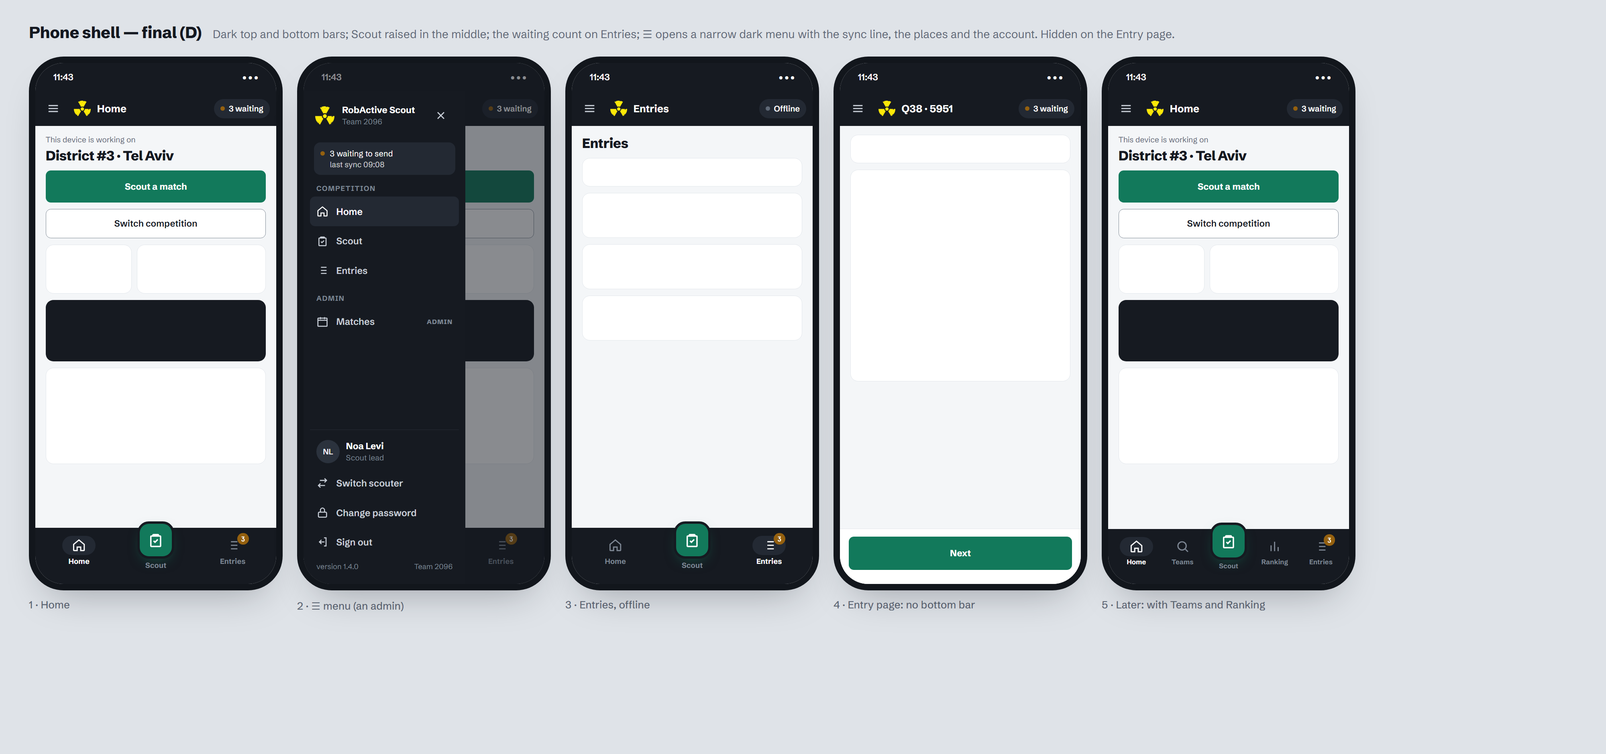
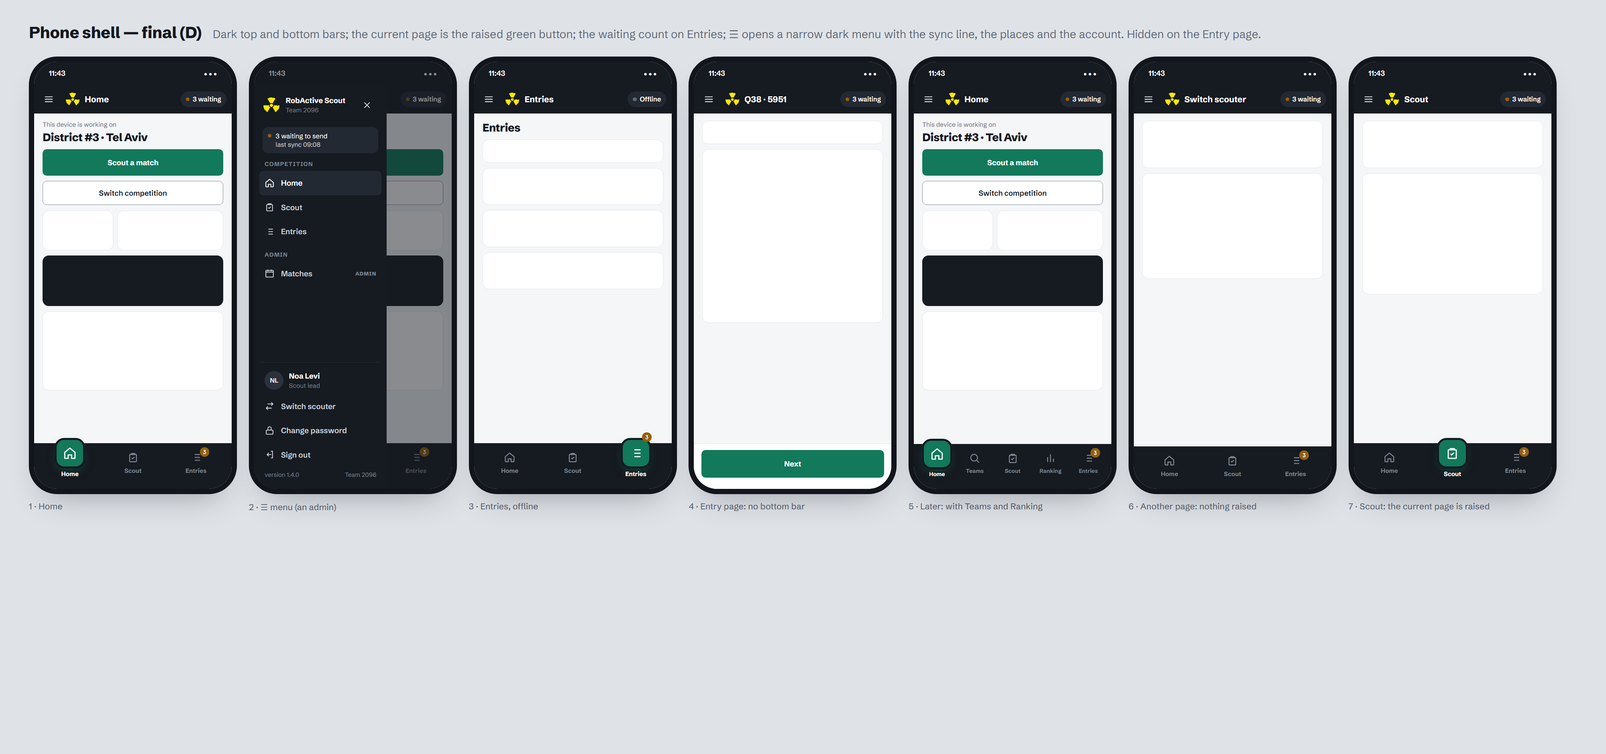
docs: UI fix round notes, spec v0.65-v0.66 (next match, Home station, deleted matches), phone bar design amended

diff --git a/docs/design/pages/11-phone-shell/final/shell-phone.html b/docs/design/pages/11-phone-shell/final/shell-phone.html
@@ -4,19 +4,21 @@
 <style>.canvas{height:940px}.frames{gap:18px}.phone{zoom:.8}.bb.five>span{font-size:10.5px}</style>
 </head><body>
 <div class="canvas">
-  <div class="canvas-head"><b>Phone shell — final (D)</b><span>Dark top and bottom bars; Scout raised in the middle; the waiting count on Entries; ☰ opens a narrow dark menu with the sync line, the places and the account. Hidden on the Entry page.</span></div>
-  <div class="frames" id="f"></div>
+  <div class="canvas-head"><b>Phone shell — final (D)</b><span>Dark top and bottom bars; the current page is the raised green button; the waiting count on Entries; ☰ opens a narrow dark menu with the sync line, the places and the account. Hidden on the Entry page.</span></div>
+  <div class="frames" id="f" style="gap:18px;zoom:0.82"></div>
 </div>
 <script src="../src/ps.js"></script>
 <script>
 const P = (inner, cap) => `<figure class="frame"><div class="phone"><div class="scr">${inner}</div></div><figcaption>${cap}</figcaption></figure>`;
 const tab = (k, l, on, extra = '') => `<span class="${on ? 'on' : ''}"><span class="ic">${PS.svg(k)}</span>${l}${extra}</span>`;
-const fab = (on) => `<span class="center"><span class="fab">${PS.svg('scout')}</span><span class="lbl" style="color:${on ? '#fff' : 'var(--rail-muted)'}">Scout</span></span>`;
+// Amended 2026-10-08: the CURRENT page is the raised green button, wherever it sits; the rest are flat tabs.
+const fab = (k, l, extra = '') => `<span class="center on"><span class="fab">${PS.svg(k)}</span><span class="lbl" style="color:#fff">${l}</span>${extra}</span>`;
+const item = (k, l, on, extra = '') => (on ? fab(k, l, extra) : tab(k, l, false, extra));
 const badge = '<span class="badge2">3</span>';
-const bar = (on) => `<div class="bb dark">${tab('home', 'Home', on === 'home')}${fab(on === 'scout')}${tab('entries', 'Entries', on === 'entries', badge)}</div>`;
+const bar = (on) => `<div class="bb dark">${item('home', 'Home', on === 'home')}${item('scout', 'Scout', on === 'scout')}${item('entries', 'Entries', on === 'entries', badge)}</div>`;
 const S = '<svg viewBox="0 0 24 24"><circle cx="11" cy="11" r="7"/><path d="M21 21l-4.3-4.3"/></svg>';
 const R = '<svg viewBox="0 0 24 24"><path d="M6 20V10M12 20V4M18 20v-7"/></svg>';
-const later = `<div class="bb dark five">${tab('home', 'Home', true)}<span><span class="ic">${S}</span>Teams</span>${fab(false)}<span><span class="ic">${R}</span>Ranking</span>${tab('entries', 'Entries', false, badge)}</div>`;
+const later = `<div class="bb dark five">${item('home', 'Home', true)}<span><span class="ic">${S}</span>Teams</span>${tab('scout', 'Scout', false)}<span><span class="ic">${R}</span>Ranking</span>${tab('entries', 'Entries', false, badge)}</div>`;
 const drawer = (admin) => `<div class="scrim6"></div><div class="drw dark narrow" style="top:44px"><div class="br"><img src="${PS.mark}" alt=""><div><b>RobActive Scout</b><small>Team 2096</small></div><span class="x">${PS.svg('x')}</span></div>
   <div class="syncrow"><span class="dot2"></span>3 waiting to send<small>last sync 09:08</small></div>${PS.navItems('home', { admin })}${PS.account()}</div>`;
 const entries = '<div class="body2"><h2 style="margin-top:0">Entries</h2><div class="crd" style="height:44px"></div><div class="crd" style="height:70px"></div><div class="crd" style="height:70px"></div><div class="crd" style="height:70px"></div></div>';
@@ -25,6 +27,8 @@ document.getElementById('f').innerHTML =
   P(PS.sbar('dark') + PS.top('dark', 'Home') + PS.home() + bar('home') + drawer(1), '2 · ☰ menu (an admin)') +
   P(PS.sbar('dark') + PS.top('dark', 'Entries', '<span class="dot2 off"></span>Offline') + entries + bar('entries'), '3 · Entries, offline') +
   P(PS.sbar('dark') + PS.top('dark', 'Q38 · 5951') + '<div class="body2"><div class="crd" style="height:44px"></div><div class="crd" style="height:330px"></div></div><div style="flex:none;background:var(--surface);border-top:1px solid var(--line);padding:12px 14px 22px"><div style="height:52px;border-radius:8px;background:var(--accent);color:#fff;display:grid;place-items:center;font-weight:650">Next</div></div>', '4 · Entry page: no bottom bar') +
-  P(PS.sbar('dark') + PS.top('dark', 'Home') + PS.home() + later, '5 · Later: with Teams and Ranking');
+  P(PS.sbar('dark') + PS.top('dark', 'Home') + PS.home() + later, '5 · Later: with Teams and Ranking') +
+  P(PS.sbar('dark') + PS.top('dark', 'Switch scouter') + '<div class="body2"><div class="crd" style="height:90px"></div><div class="crd" style="height:200px"></div></div>' + bar(null), '6 · Another page: nothing raised') +
+  P(PS.sbar('dark') + PS.top('dark', 'Scout') + '<div class="body2"><div class="crd" style="height:90px"></div><div class="crd" style="height:230px"></div></div>' + bar('scout'), '7 · Scout: the current page is raised');
 </script>
 </body></html>

diff --git a/docs/design/pages/11-phone-shell/src/d.css b/docs/design/pages/11-phone-shell/src/d.css
@@ -6,3 +6,6 @@
 .drw.narrow .syncrow { font-size: 12.5px; margin: 6px 6px 0; padding: 9px 10px; flex-wrap: wrap; row-gap: 2px; }
 .drw.narrow .syncrow small { margin-left: 15px; width: 100%; }
 .bb.dark .center .fab { border-color: var(--rail); }
+/* Amended 2026-10-08 (UI fix round): the current page is the raised green button. */
+.bb.dark .center { position: relative; }
+.bb.dark .center .badge2 { top: -4px; left: 60%; z-index: 1; }

diff --git a/docs/design/UI-FIX-NOTES.md b/docs/design/UI-FIX-NOTES.md
@@ -1,0 +1,212 @@
+# UI fix notes — round 1
+
+Notes from real-device testing of `develop` (`version 9b102cd`). Collected page by page;
+nothing is fixed until the list is complete. Fixed on `fix/ui-pages`, one commit per page.
+Source of truth for each fix: the page's `final/` images and README.
+
+## 01 Entry
+
+**Phone**
+
+1. **Swipe between phases is not smooth and only works inside the form.** Swiping on the
+   empty area below the form (e.g. in Teleop) does nothing. Expected: swipe anywhere on
+   the page moves between phases, and the transition is smoother.
+2. **Breakdown time starts at `0` and the 0 can't be removed.** Typing gives `020`.
+   Expected: the field can be cleared (empty, not `0`), so typing `20` gives `20`.
+3. **Review entry sheet doesn't close on swipe-down.** Expected: dragging the sheet down
+   dismisses it, like a native bottom sheet.
+4. **Submitted entry stays "waiting" while online.** After submitting match 80, the top
+   bar shows `waiting 2` in brown (one earlier entry already waiting) and nothing syncs,
+   even with internet. Expected: online → Syncing → All sent. *Possible bug, not only UI —
+   investigate the sync queue before fixing.* On every app open the pill shows green
+   Syncing, then goes back to brown Waiting. Dev DB check (2026-10-08): the computer's
+   entry (match 50) arrived; match 80 never reached the server. Entries on the phone shows
+   both rows with the brown up arrow and **no** "Not synced:" line, so the ops are not
+   parked — either the server answers "unexpected server error" (transient, retried
+   forever; the cause is only in the Vercel runtime log, which this machine's CLI can't
+   read) or the push/pull call itself fails (401 with no token, network, CORS).
+   Reproduce through the API with a seed user before fixing.
+   No expired or offline banner shows on the phone, only the "cached" one, so
+   `syncNow` returns `offline` and not `unauthenticated`. Lead suspect: the **whole push
+   request is refused** (for example a 400 because one queued op fails the push schema,
+   perhaps the older waiting entry made by an earlier build). If so, a single bad op
+   blocks the entire queue forever, which is a robustness bug as well as this report.
+   **Sign out and sign in on the phone did NOT help (2026-10-08)**, so this is not the
+   Manage token problem. A fresh token still can't send these ops: the cause is in the
+   ops themselves or in how the server handles them. Next step in the fix: rebuild the
+   same ops (a bare match create for Q80 plus an entry, possibly Broke down with a
+   breakdown time) through the API as a seed user against the preview server, and read
+   the response.
+   **ROOT CAUSE FOUND (2026-10-08), reproduced against the preview server:**
+   `pnpm db:clean` (packages/db/src/seed/clean.ts) hard-deletes every non-seed row in the
+   dev DB: stray users (including "test"), matches and entries. Hard deletes never reach
+   a device, because pull carries no tombstones, so the phone still caches the old,
+   now-deleted match rows (and the "test" account). Scouting match 80 reused the cached
+   match id, so no bare-match op was queued. On the server the entry insert hits the FK on
+   `match_id` and throws. `syncPush` turns any thrown error into
+   `invalid / "unexpected server error"`, which the client treats as **transient**: never
+   parked, never shown, retried forever. Repro: a push of an entry with a random
+   `match_id` as seed_scouter returned 200
+   `{"status":"rejected","reason":"invalid","detail":"unexpected server error"}`.
+   **This is not dev-only.** An admin deleting a match in Manage (a hard delete,
+   `store.ts:694`) while another device has it cached produces exactly the same stuck,
+   silent queue at a venue.
+   Fix scope:
+   (a) server: a missing parent (an FK violation on `match_id` / `team_id` / `event_id`)
+       becomes `parent-deleted`, never the transient error;
+   (b) client: on `parent-deleted` for an entry whose match is gone, re-queue the bare
+       match create (event, type, number from the cached row) ahead of the entry and
+       retry, so the scout's work lands without anyone doing anything; otherwise
+       show the "Not synced:" reason;
+   (c) a device must learn about deleted matches (and users): deletion tombstones in
+       pull, or a pruning pass;
+   (d) tests for all three. The phone's 3 stuck entries are the live acceptance test.
+   User: **fix it in this round.** Spec done (v0.66 / SPEC-FINAL v1.18 §9.3, §9.3.1,
+   §9.7). Deleted users (here, only the dev clean script) stay out of scope, because the
+   product never deletes a user, only disables one.
+
+**Computer**
+
+Looks good — no notes.
+
+## 02 Scout
+
+**Phone**
+
+1. ~~No arrows on the match number~~ — not a bug: the final has no stepper by design
+   (my test list was wrong). Typing works.
+2. **"Team not here?" hides under the Start entry bar** — only visible when scrolled all
+   the way down. Fix the bottom clearance, and make the link bigger / more visible.
+3. **Match number is empty after submitting** instead of moving to the next match.
+   *Contradicts the closed design ("no next match suggestion", final README line 13).*
+   User (2026-10-08): it's small, so **do it this round**. After submitting a **new** entry,
+   Scout opens with the same match type and the number + 1, still editable. After an
+   edit of an older entry the number stays empty. Small change: `SavedNotice` carries
+   the match type and number (`EntryRoute.tsx` ~line 202) and `SelectRobotPage` seeds
+   its state from it. Spec done (v0.65 / SPEC-FINAL v1.17 §8.1); still update the Scout
+   final README line 13 + its feature table in the fix commit.
+
+**Computer**
+
+4. **Start entry is not fixed.** After "Team not here?" opens the team list, you have to
+   scroll all the way down to reach Start entry. Expected: Start entry stays fixed at
+   the bottom like on the phone.
+
+## 03 Home
+
+**Phone**
+
+1. **"Working from data already on this device…" banner isn't flush with the page** —
+   the background shows on its left. Fix the alignment/width.
+   *Sync clue (see Entry note 4):* this banner means the last sync did not complete, so
+   the phone's sync fails as a whole (push throws, or the pull fails) — not just one op.
+2. **Switch competition sheet has no ✕**, and it should close on swipe-down. **Applies to
+   every bottom sheet in the app** (same as Entry note 3): add the ✕ where the final
+   shows one, and drag-down-to-dismiss on all of them.
+3. **NEW — tapping the station on Home opens the station picker** (the same sheet Scout
+   uses), not only on Scout. Spec done (v0.65 / SPEC-FINAL v1.17 §17.9).
+
+**Computer**
+
+Looks good — the Switch competition sheet has its ✕ and closes. No notes.
+
+## 04 Login
+
+**Computer** — looks good, no notes.
+**Phone** — not tested yet (signing out would risk the 2 unsent entries). Test after the
+sync fix.
+
+## 05 Entries
+
+1. ~~Tapping a row doesn't open the entry~~ — expected for now: rows open the **entry
+   preview** page (SPEC-FINAL §13.4, task 1.52), which isn't built yet; the final README
+   says "Until it exists, rows don't open." My test list was wrong. Check in the fix
+   that rows don't *look* tappable (no pointer / press state) until then.
+2. **Phone: the scouter's full name is cut off.** Show the full name (wrap or a second
+   line), not truncated.
+
+## 06 Switch scouter
+
+Phone and computer fine. The user "test" shows on the phone but not on the computer —
+**not a bug**: the list is the accounts cached on *this device* (SPEC-FINAL §17.9, §7.5),
+i.e. accounts that have signed in there before. Consider a one-line hint under the list
+("Only accounts that have signed in on this device") — ask before adding.
+
+## 07 Manage
+
+**Computer**
+
+1. **Removing a team from the roster fails.** The team disappears, comes straight back,
+   and a "sign in again" message shows. (Add not tested: every team is already on the
+   roster.)
+2. **Creating an event → "sign in again".**
+3. **Creating a season → "sign in again".**
+   *Diagnosis so far (1–3):* "sign in again" is the server's 401 body, shown as-is by
+   `panelErrorLine`. A freshly minted seed_admin token works on the preview server
+   (listSeasons, getActiveContext and pull are all 200), so the server is fine and the
+   **device's session is sending no token or a dead one.** `rpc.ts` skips
+   `session.expire()` when `bearer` is null, so a session with no token gets a 401 on
+   every call but never shows the expired banner. Suspect: the login fell back to an
+   **offline sign-in** (8 s `LOGIN_TIMEOUT_MS` vs a Vercel cold start plus bcrypt), so the
+   session holds no token. Confirm on the device before fixing.
+   **Confirmed (2026-10-08):** after sign out and sign in, removing and adding roster teams
+   and creating a season and an event all work. The session was holding no working token.
+   **User requirement: this must never need a manual sign-out.** The fix must remove the
+   cause: (a) find why the session lost its token, whether a silent offline fallback on a
+   slow (cold-start) login or something else; (b) a tokenless or dead session must
+   recover by itself (reconnect / token exchange), or at least be marked expired so the
+   "Sign in again" strip shows, never fail silently call after call; (c) a test for it.
+4. **Matches tab: no filter.** Desktop lists every match with no way to filter, unlike
+   the phone. Add the phone's filter to the desktop Matches tab.
+
+**Phone**
+
+5. **The match edit sheet (right arrow on a match) is broken:**
+   - wider than the screen (scrolls sideways);
+   - opens scrolled to the bottom instead of the top;
+   - focuses the first team's field straight away (keyboard up). Expected: open clean,
+     with nothing focused; the user picks what to edit.
+   - **swipe down closes it** (user asked explicitly; same rule as every sheet, Home note 2).
+
+## 08 Users
+
+Computer looks good. **The user "test" isn't in the list**, although the phone's Switch
+scouter shows "test" as a cached account. Dev DB check (2026-10-08): the server has only
+`seed_scouter`, `seed_lead` and `seed_admin`, and the app has no way to delete a user.
+So the Users page is right, and the open question is **where the phone's cached "test"
+came from**. It may be linked to the phone's sync problem (Entry note 4): if the waiting
+entries' author is a user the server doesn't know, the push can never succeed.
+
+## 09 User detail
+
+Works. **But "sign in again" came back** after the earlier sign-out and sign-in, so the
+Manage session problem (Manage notes 1–3) **recurs**: it isn't a one-off cold-start
+login. Something drops or kills the token during normal use. Needs a repro in the fix
+round (load a token for the preview into the browser pane through the API and watch
+which call first returns 401 and what changed the token just before).
+**Trigger (user):** it appeared when opening a specific user's detail page from Users.
+With a fresh seed_admin token, `listUsers`, `getActiveContext` and
+`countEntriesByScouter` all return 200 on the preview server, so the token was already
+bad before the page loaded. Any 401 with a bearer calls `session.expire()` and drops the
+token, so check what the session held and when it changed.
+
+## 10 Change password
+
+Computer — works, no notes.
+
+## 11 Side menu and bottom bar
+
+Computer — all working, no notes.
+
+**Phone**
+
+1. **Swipe closes the drawer.** The user said "swipe right". The drawer comes in from the
+   **left** edge, so the close is a swipe **left**, back toward its edge (user: y). Also give it a drag that follows the finger, as with the sheets.
+2. **Bottom bar: the green (`--accent`) highlight always sits on Scout**, even on Home
+   or Entries. Expected: **only the current page is green** (Home, Scout or Entries), and
+   on any other page none of them is. **User refined it: the current page gets the
+   raised 58 px green button (the one Scout has now), and that button moves with the
+   page.** Home raised on Home, Entries raised on Entries (badge stays), Scout raised on
+   Scout, nothing raised elsewhere. **Design updated 2026-10-08:** shell final README,
+   images 1/3/5/6/7 and THEME.md "Locked components". Other pages' final images still
+   show the old always-raised Scout; the shell final wins.

diff --git a/docs/spec/SPEC-FINAL.md b/docs/spec/SPEC-FINAL.md
@@ -1,6 +1,10 @@
 # SPEC-FINAL — FRC Scouting Platform (ROBACTIVE #2096)
 
-**Version:** 1.16 · **Date:** 2026-10-07 · **Derived from:** `frc-scouting-app-spec.md` v0.35 (topics 1–20 CLOSED)
+**Version:** 1.18 · **Date:** 2026-10-08 · **Derived from:** `frc-scouting-app-spec.md` v0.35 (topics 1–20 CLOSED)
+
+*v1.18 amends §9.3 (a delta pull also carries deleted matches), §9.3.1 (a missing parent is `parent-deleted`, never a transient error) and §9.7 (a deleted match is rebuilt, not discarded). See the living spec's §21, 2026-10-08 (v0.66).*
+
+*v1.17 amends §8.1 (after a new entry, Scout offers the next match number) and §17.9's Home row (the station opens the station picker). See the living spec's §21, 2026-10-08 (v0.65).*
 
 *v1.16 adds a note to §17.7 (contiguous 48 px rows) and the `countEntriesByScouter` row, with `deleteSeason` / `deleteEvent` and their permission, to Appendix C. See the living spec's §21, 2026-10-07 (v0.64).*
 
@@ -872,7 +876,7 @@ This is where 95% of usage happens: a student in a loud arena, phone in one hand
 
 ### 8.1 Match and robot selection
 
-**Manual selection in v1.** There is no assignment system. Submit returns to a fresh manual selection.
+**Manual selection in v1.** There is no assignment system. Submit returns to a fresh manual selection, except that after a **new** entry the match type is kept and the match number is pre-filled with the **next number** (still editable; nothing is picked). After an edit of an existing entry the number stays empty (amended 2026-10-08, v1.17).
 
 **Match entry.** The scouter picks:
 
@@ -1014,6 +1018,7 @@ It holds exactly the entities the delta pull returns, plus device-local state:
 - **Every subsequent pull is a delta**: rows with `updated_at > since`. The server returns `watermark = max(updated_at) − 5 seconds`, an overlap that guarantees no row committed inside the same instant is skipped. Overlapping rows arrive twice and are idempotently upserted locally.
 - A delta pull runs on **app open, screen entry, pull-to-refresh, manual refresh, reconnect, and the 45-second auto-refresh** (§10).
 - If the server reports the event no longer exists (hard-deleted, §3.9), the client **wipes that event's cache** and shows a notice naming the event.
+- **A hard-deleted match reaches devices too** (amended 2026-10-08, v1.18). A match has no `deleted_at`, so a delta pull also returns the ids of the event's matches deleted since `since`, and the client drops them from its cache. Without this a device keeps offering a match the server no longer has, and every entry recorded against it fails to push.
 
 ### 9.3.1 The push protocol
 
@@ -1041,6 +1046,7 @@ It holds exactly the entities the delta pull returns, plus device-local state:
 
 - Operations are applied **in `seq` order**, each in its own transaction. A rejection does not stop the batch.
 - **`applied`, `noop`, `divergence` and `duplicate` all count as a cloud ack** for that `row_id`: the data is on the server. The client marks the record `acked` and prunes the operation.
+- **A missing parent is always `parent-deleted`** (amended 2026-10-08, v1.18). That includes a foreign-key failure on the entry's match, team or event. It is never the generic "unexpected server error", which the client retries silently for ever. Only a genuinely transient failure may use that.
 - **`rejected` is never an ack.** `parent-deleted` triggers §9.7. Every other rejection reason leaves the record local and surfaces it on the sync page for a human to look at; the operation is not retried automatically.
 - **`op_id` is the idempotency key.** Replaying a batch is safe; a previously applied `op_id` returns `noop`.
 - **Authorization is per operation, against the operation's `author_user_id`** (§7.5), not against the bearer.
@@ -1135,6 +1141,8 @@ All of them ride the same outbox.
 Offline statistics naturally reflect only the entries the device currently holds; they become complete once it has gathered the others by sync or QR.
 
 ### 9.7 Parent-deleted records
+
+**A deleted match is the exception: it is rebuilt, not discarded** (amended 2026-10-08, v1.18). A match is only event + type + number (§6.4), so when an entry's only missing parent is its match, the client queues the bare match create again, ahead of the entry, from its cached row, and pushes both. The scout's work lands and no one acts. The steps below apply only when the rebuild is impossible (the event, season or form version is gone too).
 
 When the server rejects an operation with `parent-deleted` — the season, event or form version it belongs to has been hard-deleted:
 
@@ -1922,7 +1930,7 @@ The supplied logo is **raster, not vector**. It is large enough for every use in
 
 | Surface | Layout and behaviour |
 |---|---|
-| Context / landing page (**Home, at `/`**) | The signed-in landing page (amended 2026-10-06, v1.7). The event this device works on, with **Scout as the one primary action** (Scout lives at `/scout`) and **Switch competition**, a sheet listing seasons then that season's events, most recent first — **never a header dropdown**; a session override shows a banner with "Back to …". Then: the scouter's **station**, **entries waiting to send** with the last sync time, and the scouter's **last entry** (opens it). **Go to** tiles for the app's places (Entries, Switch scouter; Manage and Users for admins only — on a phone, Manage reads **Matches** and opens the phone matches view, and **Users is not shown**, since it needs a computer; amended 2026-10-07, v1.12). **Schedule coverage**: one square per qualification match, marking matches missing a robot and naming them, as of the last sync. Once ranking (§13.5) exists, **our team's rank** card and a **top teams** list with a 5-match trend line; until then neither is shown. The version string is in the footer. |
+| Context / landing page (**Home, at `/`**) | The signed-in landing page (amended 2026-10-06, v1.7). The event this device works on, with **Scout as the one primary action** (Scout lives at `/scout`) and **Switch competition**, a sheet listing seasons then that season's events, most recent first — **never a header dropdown**; a session override shows a banner with "Back to …". Then: the scouter's **station** (tapping it opens the same station picker as Scout; amended 2026-10-08, v1.17), **entries waiting to send** with the last sync time, and the scouter's **last entry** (opens it). **Go to** tiles for the app's places (Entries, Switch scouter; Manage and Users for admins only — on a phone, Manage reads **Matches** and opens the phone matches view, and **Users is not shown**, since it needs a computer; amended 2026-10-07, v1.12). **Schedule coverage**: one square per qualification match, marking matches missing a robot and naming them, as of the last sync. Once ranking (§13.5) exists, **our team's rank** card and a **top teams** list with a 5-match trend line; until then neither is shown. The version string is in the footer. |
 | Sign-in (`/login`) | Added 2026-10-06, v1.8. One job: sign in. Desktop: the brand lockup on a dark plate beside the form; phone: the lockup in a dark band above it — brand, not a hero, no tagline. Username, password with a **show / hide** button, the "ask an admin" hint, one primary button. The offline, expired-session and error lines keep their wording. The version string is at the foot, so a device that cannot sign in can still be identified. |
 | Entries (`/entries`) | Added 2026-10-07, v1.9. Everything this device holds for the active competition, **newest first**. Search by team, match or scouter; filter chips **All · Mine · Waiting to send · Needs a look** (refused, or "not in line-up"). Each row: match, station + team (+ the "not in line-up" flag), robot status, scouter, time with a mark when waiting to send, and the robot's **scouted points** (§4.1; "—" for no show / disabled) once the metric engine exists. A refused entry shows its reason on its own line. A row opens the **entry preview** (§13.4) as its own page. |
 | Switch scouter (`/switch-scouter`) | Added 2026-10-07, v1.10. A page, not a dialog. A **"Scouting now"** card names the current scouter; **Who's scouting next?** lists the device's cached accounts ("Full name · username", the current one marked); the chosen person's password with **show / hide**. Once someone is chosen, a note says what **stays on this device**: the current scouter's entries waiting to send (which still send under their own author, §7.5) and the remembered station. Works offline (§7.5). Success goes to Scout; Cancel to Home. |

diff --git a/docs/spec/frc-scouting-app-spec.md b/docs/spec/frc-scouting-app-spec.md
@@ -1,7 +1,7 @@
 # FRC Scouting Platform — Design Specification (Living Document)
 
 **Status:** DRAFT v0.35 — **topics 1–20 CLOSED; `SPEC-FINAL.md` written.** Every feature topic plus the system architecture, the deployment/operations model, the non-functional requirements and the delivery plan. Core forks decided (storage, versioning, offline stats, stack, access model, language, roles/auth, data-entry UX, offline-first & sync, realtime deferred → 45s refresh, dashboards & visualisation, search/ranking/browse, data quality, alliance selection, repo layout & services, environments & operations, performance/testing/privacy/deletion, phasing & delivery). **v1 = phases 0–2, due 2026-11-20** (§19.1). Topic 14 is closed as **deferred in full to §24**, and topic 20 as **setup only** with the LLM connection parked. **No live questions remain.** `docs/spec/SPEC-FINAL.md` (v1.0, 2026-09-02) is the distilled build input; **it carries 32 consolidation decisions (its Appendix D) that resolve gaps this document left unstated, and it supersedes this document wherever the two differ on a v1 requirement.** `docs/plans/IMPLEMENTATION-PLAN.md` (v1.1, 2026-09-03) covers phases 0–1 in full task detail and phase 2 as headings. **The spec phase is complete; the build phase begins at the provisioning gate.**
-**Last updated:** 2026-10-07 (v0.64)
+**Last updated:** 2026-10-08 (v0.66)
 **Owner:** (your name / team number)
 **Destination:** this document, once all topics are CLOSED, becomes the input spec for Claude Code to generate an implementation plan.
 
@@ -1487,6 +1487,8 @@ Decisions get recorded here as topics close, so Claude Code (and future you) can
 
 | Date | Topic | Decision | Rationale |
 |---|---|---|---|
+| 2026-10-08 | 9 | **[RAISED BY ME] Deleted matches reach devices; a missing match is rebuilt; a missing parent is never a silent transient error.** A delta pull also carries the ids of matches deleted since the watermark. The server reports any missing parent (including an FK failure) as `parent-deleted`. On `parent-deleted` for an entry whose only missing parent is its match, the client re-queues the bare match create ahead of the entry instead of discarding it (§9.7 still applies when the event, season or form version is gone). SPEC-FINAL v1.18 §9.3, §9.3.1, §9.7. | Found on a real phone in the UI fix round. Matches are hard-deleted (no `deleted_at`), so a device kept a match the server no longer had. Its entries hit an FK error, which the server reported as the generic transient error, and the client retried them silently for ever: three entries stuck in "waiting" with no reason shown. The same thing happens at a venue when an admin deletes a match another device still caches. A match is fully defined by event + type + number, so rebuilding it loses nothing, whereas discarding would destroy a scout's work for no reason. |
+| 2026-10-08 | 8 / 16 | **Scout pre-fills the next match number after a new entry; Home's station opens the station picker.** After submitting a new entry Scout keeps the match type and offers number + 1, editable, with no robot picked; after editing an older entry the number stays empty. Tapping the station on Home opens Scout's station sheet. SPEC-FINAL v1.17 §8.1, §17.9. | Found in the UI fix round on real phones: a scout usually watches the next match from the same station, so retyping the number every time is wasted effort. It's only a pre-fill, so a wrong guess costs one edit. Jumping to an old match + 1 after an edit would be confusing, so edits don't pre-fill. The station is shown on Home, so the user expected to change it there too. |
 | 2026-10-07 | 16 | **Contiguous 48 px full-width rows satisfy §17.7's 8 px spacing rule.** Desktop lists (Entries, Users, Manage) keep rows 48 px tall and touching. SPEC-FINAL v1.16 §17.7. | Raised while coding the shell (RB.6) **[RAISED BY ME]**: a literal 8 px gap between every row would turn each table into a stack of separate cards and undo the designs. A full-width row is one large target, not two adjacent small ones, so mis-taps between neighbours are no likelier. The user decided on 2026-10-07. |
 | 2026-10-07 | 16 | **Phone shell designed (variant D).** Dark top and bottom bars; **Scout a raised button in the middle** of the bottom bar; the waiting count on Entries; a narrow (252 px) dark drawer with the sync line, the places and the account. Later bar: Home · Teams · Scout · Ranking · Entries. SPEC-FINAL v1.15 §17.9. | The user picked the variant that keeps the one primary job under the thumb, and asked for a menu that does not cover the page. A raised middle button needs the same number of tabs on each side, so the "at most four, Entries returns to the drawer" rule becomes four tabs plus Scout **[RAISED BY ME]**. |
 | 2026-10-07 | 5 / 16 | **Change password redesigned (variant C); all ten current pages closed.** The sign-in frame with show / hide on every field, live checks (length, match) and offline said first with the button held. **An account menu** in the sidebar's account corner (Switch scouter · Change password · Sign out) replaces the footer link. SPEC-FINAL v1.14 §17.9. | The user kept the sign-in frame so the forced and voluntary changes look the same, and wanted mistakes caught while typing. The footer link had no place in the new design, so the voluntary change needed an entry point **[RAISED BY ME]**; the account corner already holds who is signed in, so its menu is where an account action is looked for. |
@@ -1619,6 +1621,8 @@ Every edit is logged here so changes can be audited without reprinting the docum
 
 | Version | Date | Sections touched | Change |
 |---|---|---|---|
+| v0.66 | 2026-10-08 | header, 21, 23 · SPEC-FINAL v1.18 (§9.3, §9.3.1, §9.7) | **Sync fix**: deleted matches reach devices, a missing match is rebuilt, a missing parent is never a silent transient error. |
+| v0.65 | 2026-10-08 | header, 21, 23 · SPEC-FINAL v1.17 (§8.1, §17.9 Home) | **UI fix round**: Scout pre-fills the next match number after a new entry; Home's station opens the station picker. |
 | v0.64 | 2026-10-07 | header, 21, 23 · SPEC-FINAL v1.16 (§17.7, Appendix C) | **Redesign build closed out (RB.19)**: §17.7 note that contiguous 48 px rows satisfy the spacing rule; Appendix C gains `countEntriesByScouter` and lists `deleteSeason` / `deleteEvent` with `delete_objects`. |
 | v0.63 | 2026-10-07 | header, 16.3, 21, 23 · SPEC-FINAL v1.15 (§17.9 navigation) · THEME.md | **Phone shell designed**: dark bars, raised Scout, count on Entries, narrow drawer; later bar amended to four tabs plus Scout. |
 | v0.62 | 2026-10-07 | header, 16.3, 21, 23 · SPEC-FINAL v1.14 (§17.9) · THEME.md | **Change password redesigned** (live checks, show / hide, offline first); **account menu** added; all ten current pages closed. |

diff --git a/docs/design/pages/11-phone-shell/final/README.md b/docs/design/pages/11-phone-shell/final/README.md
@@ -1,4 +1,4 @@
-# Phone shell (every page below 1024 px) — closed 2026-10-07
+# Phone shell (every page below 1024 px) — closed 2026-10-07, amended 2026-10-08
 
 **The code must look like `shell-phone.png`.** The `.html` file next to it is the source, and `bash docs/design/pages/render.sh 11-phone-shell final` re-renders it. Spec: SPEC-FINAL v1.15 §17.9 (navigation); living spec v0.63.
 
@@ -16,15 +16,15 @@ It replaces the provisional phone top bar.
 
 ## Bottom bar (`--rail`)
 
-- **Home** and **Entries** are tabs: an icon plus an 11.5 px label in `--rail-muted`. The current tab is white, with a `--rail-raised` pill behind the icon.
-- **Entries** carries the waiting-to-send count as a small amber badge (mono). There is no badge when nothing is waiting.
-- **Scout** is a raised 58 px `--accent` button in the middle, with a `--rail` ring and its label below. It's the one primary job, always under the thumb.
+- **Home**, **Scout** and **Entries** sit in that order (Scout in the middle). A tab that isn't the current page is flat: an icon plus an 11.5 px label in `--rail-muted`.
+- **Entries** carries the waiting-to-send count, flat or raised, as a small amber badge (mono). There is no badge when nothing is waiting.
+- **The current page is the raised button** *(amended 2026-10-08, UI fix round)*: a raised 58 px `--accent` (green) square with a `--rail` ring, its icon, and a white label below. **It moves with the page:** Home raised on Home (image 1), Scout on Scout (image 7), Entries on Entries (image 3, the badge stays on it). On any other page nothing is raised or green (image 6). The user wanted the green mark and the bigger icon to show where you are. Before this, Scout was always the raised green button, so it read as the current page everywhere.
 - **Hidden on the Entry page** (unchanged rule): the entry's own bottom action bar takes the space.
 - **Later:** with Team search and Ranking, the bar becomes Home · Teams · **Scout** · Ranking · Entries: two tabs either side of the raised Scout (image 5). **[RAISED BY ME]** This amends the "at most four, Entries returns to the drawer" rule: four tabs plus the raised Scout, and Entries stays in the bar.
 
 ## Menu (☰): a narrow dark drawer, 252 px
 
-From the left edge, over a scrim, full height under the status bar. Top to bottom:
+From the left edge, over a scrim, full height under the status bar. It closes with ✕, a tap on the scrim, or **a swipe left** that the drawer follows under the finger *(added 2026-10-08)*. Top to bottom:
 1. Logo mark, "RobActive Scout" and "Team 2096", then ✕.
 2. **Sync line** on `--rail-raised`: "● 3 waiting to send", then "last sync 09:08" under it.
 3. **Competition:** Home · Scout · Entries (the current one on `--rail-raised`).

diff --git a/docs/design/THEME.md b/docs/design/THEME.md
@@ -154,8 +154,8 @@ Each page round adds a row here: what was picked, which page it came from, and t
 | Live checks | A list under a field: an 18 px circle then a 13 px / 600 rule. Not yet checked: empty `--control-border` circle, `--muted` text. Met: filled `--accent` with a white ✓, `--accent-ink` text. Not met: `--warn` circle with ✕, `--warn` text | Change password, 2026-10-07 |
 | Account menu | The sidebar's account corner opens a white menu above it (10 px radius, soft shadow): Switch scouter · Change password · a divider · Sign out, each with a 16 px icon; the hovered item on `--accent-tint`. The corner shows `--rail-raised` while open | Change password, 2026-10-07 |
 | Phone top bar | `--rail`, 54 px: ☰ (44 px target), logo mark, page title 16 px / 650 white, and a sync pill on `--rail-raised` at the right ("● 3 waiting" amber · "● All sent" green · "● Offline" grey) | Entry 2026-10-06, confirmed with the phone shell 2026-10-07 |
-| Phone bottom bar | `--rail`. Side tabs: icon + 11.5 px label in `--rail-muted`; current = white with a `--rail-raised` pill behind the icon. **Scout** in the middle: a raised 58 px `--accent` square (18 px radius) with a `--rail` ring and its label below. Entries carries an amber mono count badge when something is waiting. Hidden on the entry route | Phone shell, 2026-10-07 |
-| Phone menu (drawer) | 252 px `--rail` panel from the left over the scrim: brand row with ✕, a sync line on `--rail-raised`, nav groups as in the sidebar (46 px rows, current on `--rail-raised`), the account at the foot (initials, name, role; Switch scouter · Change password · Sign out; version and team) | Phone shell, 2026-10-07 |
+| Phone bottom bar | `--rail`. Home · Scout · Entries. **The current page is the raised button**: a 58 px `--accent` square (18 px radius) with a `--rail` ring, its icon and a white label below. It moves with the page; on any other page nothing is raised. The others are flat tabs: icon + 11.5 px label in `--rail-muted` (amended 2026-10-08; before that, Scout was always raised). Entries carries an amber mono count badge when something is waiting. Hidden on the entry route | Phone shell, 2026-10-07 |
+| Phone menu (drawer) | 252 px `--rail` panel from the left over the scrim; closes with ✕, a scrim tap or a swipe left (2026-10-08): brand row with ✕, a sync line on `--rail-raised`, nav groups as in the sidebar (46 px rows, current on `--rail-raised`), the account at the foot (initials, name, role; Switch scouter · Change password · Sign out; version and team) | Phone shell, 2026-10-07 |
 
 ## Open: decide during the page rounds
 
